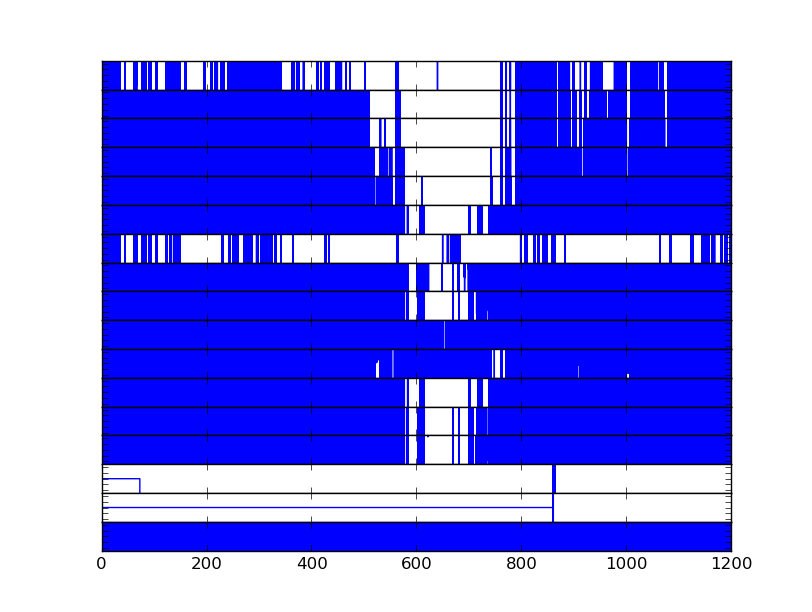
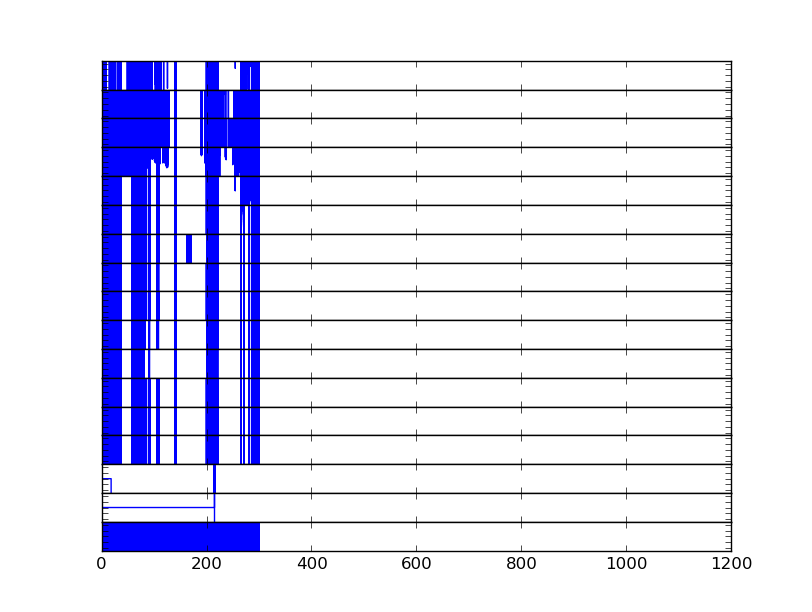
changed photos

diff --git a/data/pro1control1/plot1.py b/data/pro1control1/plot1.py
@@ -104,6 +104,6 @@ def plot_raw(fileName=None,outName=None,title=None,sample_rate = None,average=No
 if __name__ == '__main__':
     #plot_raw(fileName = 'cpt_13.dat',outName='control_average.png',average=4,sample_rate=250,ratio=0.00488281)
     #plot_raw(fileName = 'cpt_13.dat',outName='control.png',sample_rate=1000,ratio=0.00488281)
-    plot_raw(fileName='cpt_control.dat',outName='control.png',sample_rate=1000,ratio=0.00488)
-    plot_raw_channel(2,fileName = 'cpt_control.dat',outName='control_channel.png',sample_rate=1000,ratio=0.00488281,xlim=5)
+    plot_raw(average=4,fileName='cpt_control.dat',outName='control.png',sample_rate=1000,ratio=0.00488)
+    plot_raw_channel(2,average=4,fileName = 'cpt_control.dat',outName='control_channel.png',sample_rate=1000,ratio=0.00488281,xlim=5)
     #plot_raw_channel(2,fileName='cpt_pro.dat',outName='pro_channel.png',sample_rate=250,xlim=5)
